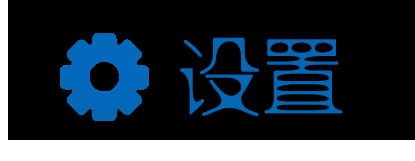
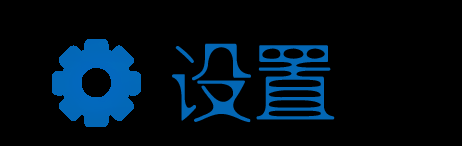
主界面按钮放置完成

diff --git a/src/el/onetoone/ui/magicgirl/MagicSyntheticPanel.java b/src/el/onetoone/ui/magicgirl/MagicSyntheticPanel.java
@@ -6,14 +6,19 @@ import el.onetoone.ui.SyntheticModel;
 import el.onetoone.ui.SystemButton;
 import el.onetoone.ui.SyntheticModel.SyntheticButton;
 import el.onetoone.ui.shop.MarketPanel;
+import javafx.geometry.Pos;
 import javafx.scene.control.Button;
 import javafx.scene.image.ImageView;
 import javafx.scene.layout.HBox;
 import javafx.scene.layout.Pane;
+import javafx.scene.layout.VBox;
 
 public class MagicSyntheticPanel extends SyntheticModel{
 
+	
+	private static final int FUNC_BUTTON_HEIGHT = 60;
 	private HBox modeButtonBox;
+	private VBox funcButtonBox;
 	
 	public MagicSyntheticPanel() {
 		// TODO Auto-generated constructor stub
@@ -67,11 +72,53 @@ public class MagicSyntheticPanel extends SyntheticModel{
 	}
 
 	@Override
-	protected void createOtherButton() {
-		// TODO Auto-generated method stub
-		marketAndBackButton = new Button("商城");
-		maxMarkButton = new Button("积分榜");
-		topUpButton = new Button("充值");
-		settingButton = new Button("设置");
+	protected void createFuncButton() {
+		
+		//商城按钮
+		ImageView shopImg =  new ImageView(Config.getTheme().getBUTTON_SHOP());
+		shopImg.setFitHeight(FUNC_BUTTON_HEIGHT);
+		shopImg.setPreserveRatio(true);
+		
+		marketAndBackButton = new Button();
+		marketAndBackButton.setGraphic(shopImg);
+		
+		//最高分按钮
+		ImageView maxMarkImg = new ImageView(Config.getTheme().getBUTTON_HEIGHEST_SCORE());
+		maxMarkImg.setFitHeight(FUNC_BUTTON_HEIGHT);
+		maxMarkImg.setPreserveRatio(true);
+		
+		maxMarkButton = new Button();
+		maxMarkButton.setGraphic(maxMarkImg);
+		
+		//氪金按钮
+		ImageView kejinImg = new ImageView(Config.getTheme().getBUTTON_KEJIN());
+		kejinImg.setFitHeight(FUNC_BUTTON_HEIGHT);
+		kejinImg.setPreserveRatio(true);
+		
+		topUpButton = new Button();
+		topUpButton.setGraphic(kejinImg);
+		
+		//设置按钮
+		ImageView settingImg = new ImageView(Config.getTheme().getBUTTON_CONFIG());
+		settingImg.setFitHeight(FUNC_BUTTON_HEIGHT);
+		settingImg.setPreserveRatio(true);
+		
+		settingButton = new Button();
+		settingButton.setGraphic(settingImg);
+		
+		//登出按钮
+		ImageView logoutImg = new ImageView(Config.getTheme().getBUTTON_LOG_OUT());
+		logoutImg.setFitHeight(FUNC_BUTTON_HEIGHT);
+		logoutImg.setPreserveRatio(true);
+		
+		logOutButton = new Button();
+		logOutButton.setGraphic(logoutImg);
+		
+		funcButtonBox = new VBox(settingButton, maxMarkButton, topUpButton, marketAndBackButton, logOutButton);
+		funcButtonBox.setSpacing(-10);
+		funcButtonBox.setAlignment(Pos.CENTER_LEFT);
+		funcButtonBox.setLayoutX(50);
+		funcButtonBox.setLayoutY(80);
+		this.getChildren().add(funcButtonBox);
 	}
 }

diff --git a/src/el/onetoone/ui/SyntheticModel.java b/src/el/onetoone/ui/SyntheticModel.java
@@ -50,7 +50,7 @@ abstract public class SyntheticModel extends Pane {
 	private MarketPanel marketPanel;
 	protected ImageView backgroundImg;
 
-	abstract protected void createOtherButton();
+	abstract protected void createFuncButton();
 	abstract protected void createModeButton();
 	
 	public SyntheticModel() {
@@ -65,11 +65,7 @@ abstract public class SyntheticModel extends Pane {
 
 		createBackgroud();
 		createModeButton();
-		createOtherButton();
-		/**
-		 * 功能按钮
-		 */
-		
+		createFuncButton();
 
 		marketAndBackButton.setMinSize(50, 50);
 		maxMarkButton.setMinSize(50, 50);
@@ -77,16 +73,7 @@ abstract public class SyntheticModel extends Pane {
 		settingButton.setMinSize(50, 50);
 
 		registerFuncButtonListener();
-
-		/**
-		 * 登出按钮，之后会修改成自己的类
-		 */
-		logOutButton = new Button("登出");
-
-		logOutButton.setMinSize(50, 50);
-
 		registerLogoutListener();
-
 		createExitButton();
 
 	}
@@ -119,8 +106,8 @@ abstract public class SyntheticModel extends Pane {
 	public void registerLogoutListener() {
 
 		logOutButton.setOnMouseEntered(e -> {
-			logOutButton.setScaleX(1.3);
-			logOutButton.setScaleY(1.3);
+			logOutButton.setScaleX(BUTTON_CHAGE_SCALE);
+			logOutButton.setScaleY(BUTTON_CHAGE_SCALE);
 		});
 
 		logOutButton.setOnMouseExited(e -> {

diff --git a/src/el/onetoone/ui/MagicGirlTheme.java b/src/el/onetoone/ui/MagicGirlTheme.java
@@ -40,6 +40,7 @@ public class MagicGirlTheme extends Theme {
 		setBUTTON_LOG_OUT(new Image("/image/button_log_out.png"));
 		setBUTTON_KEJIN(new Image("/image/button_kejin.png"));
 		setBUTTON_HEIGHEST_SCORE(new Image("/image/button_heighest_score.png"));
+		setBUTTON_SHOP(new Image("/image/button_shop.png"));
 		
 		//设置初始界面的按钮
 		setINIT_BUTTON_QUIT(new Image("/image/init_button_quit.png"));

diff --git a/src/el/onetoone/ui/InitialView.java b/src/el/onetoone/ui/InitialView.java
@@ -209,6 +209,7 @@ public class InitialView extends Application {
 							// 转换到综合界面
 							syntheticModel = new MagicSyntheticPanel();
 							root.getChildren().add(syntheticModel);
+							syntheticModel.toFront();
 						} catch (Exception q) {
 							String qErrorMessage = q.getMessage();
 

diff --git a/src/el/onetoone/ui/Theme.java b/src/el/onetoone/ui/Theme.java
@@ -42,6 +42,8 @@ public abstract class Theme {
 	protected Image BUTTON_TIME_MODE;
 	protected Image BUTTON_INDEFINITE_MODE;
 	protected Image BUTTON_STEP_MODE;
+	
+	//主界面的几个按钮
 	protected Image BUTTON_CONFIG;
 	protected Image BUTTON_SHOP;
 	protected Image BUTTON_KEJIN;
